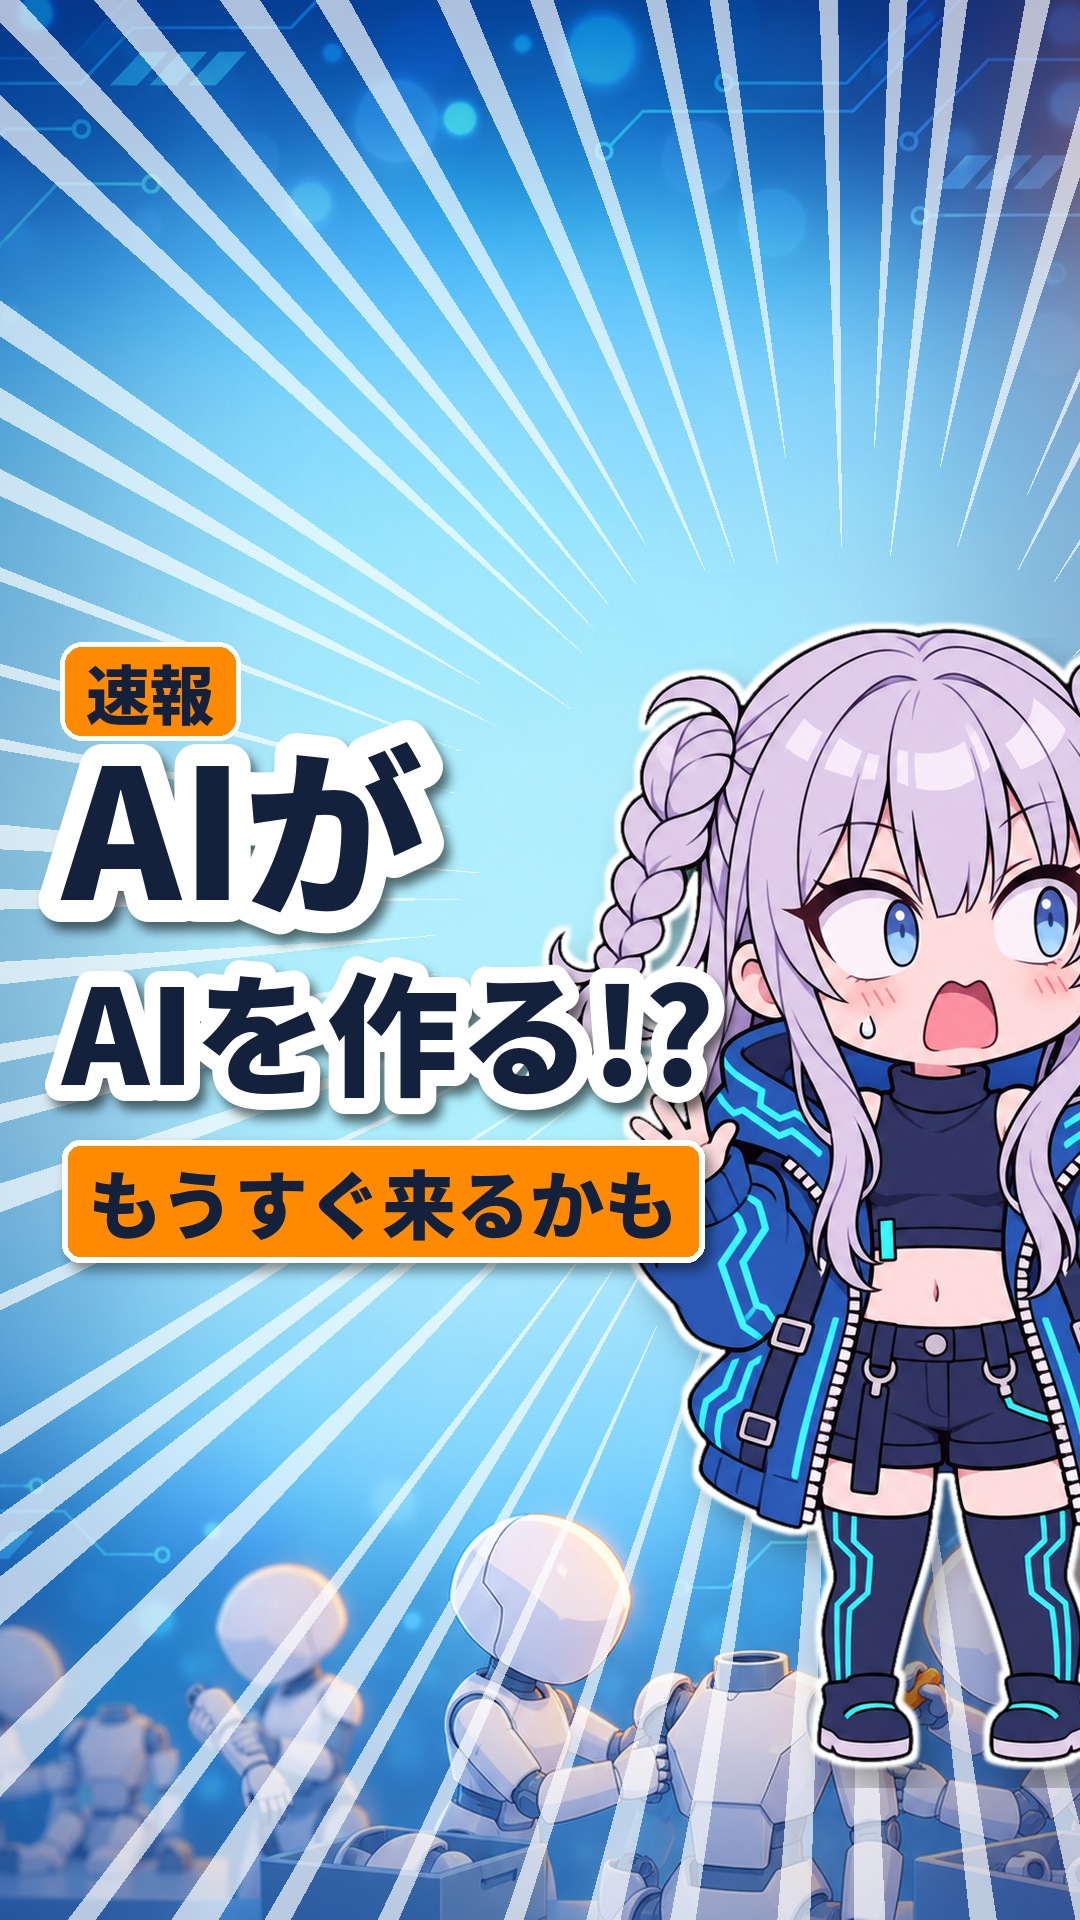
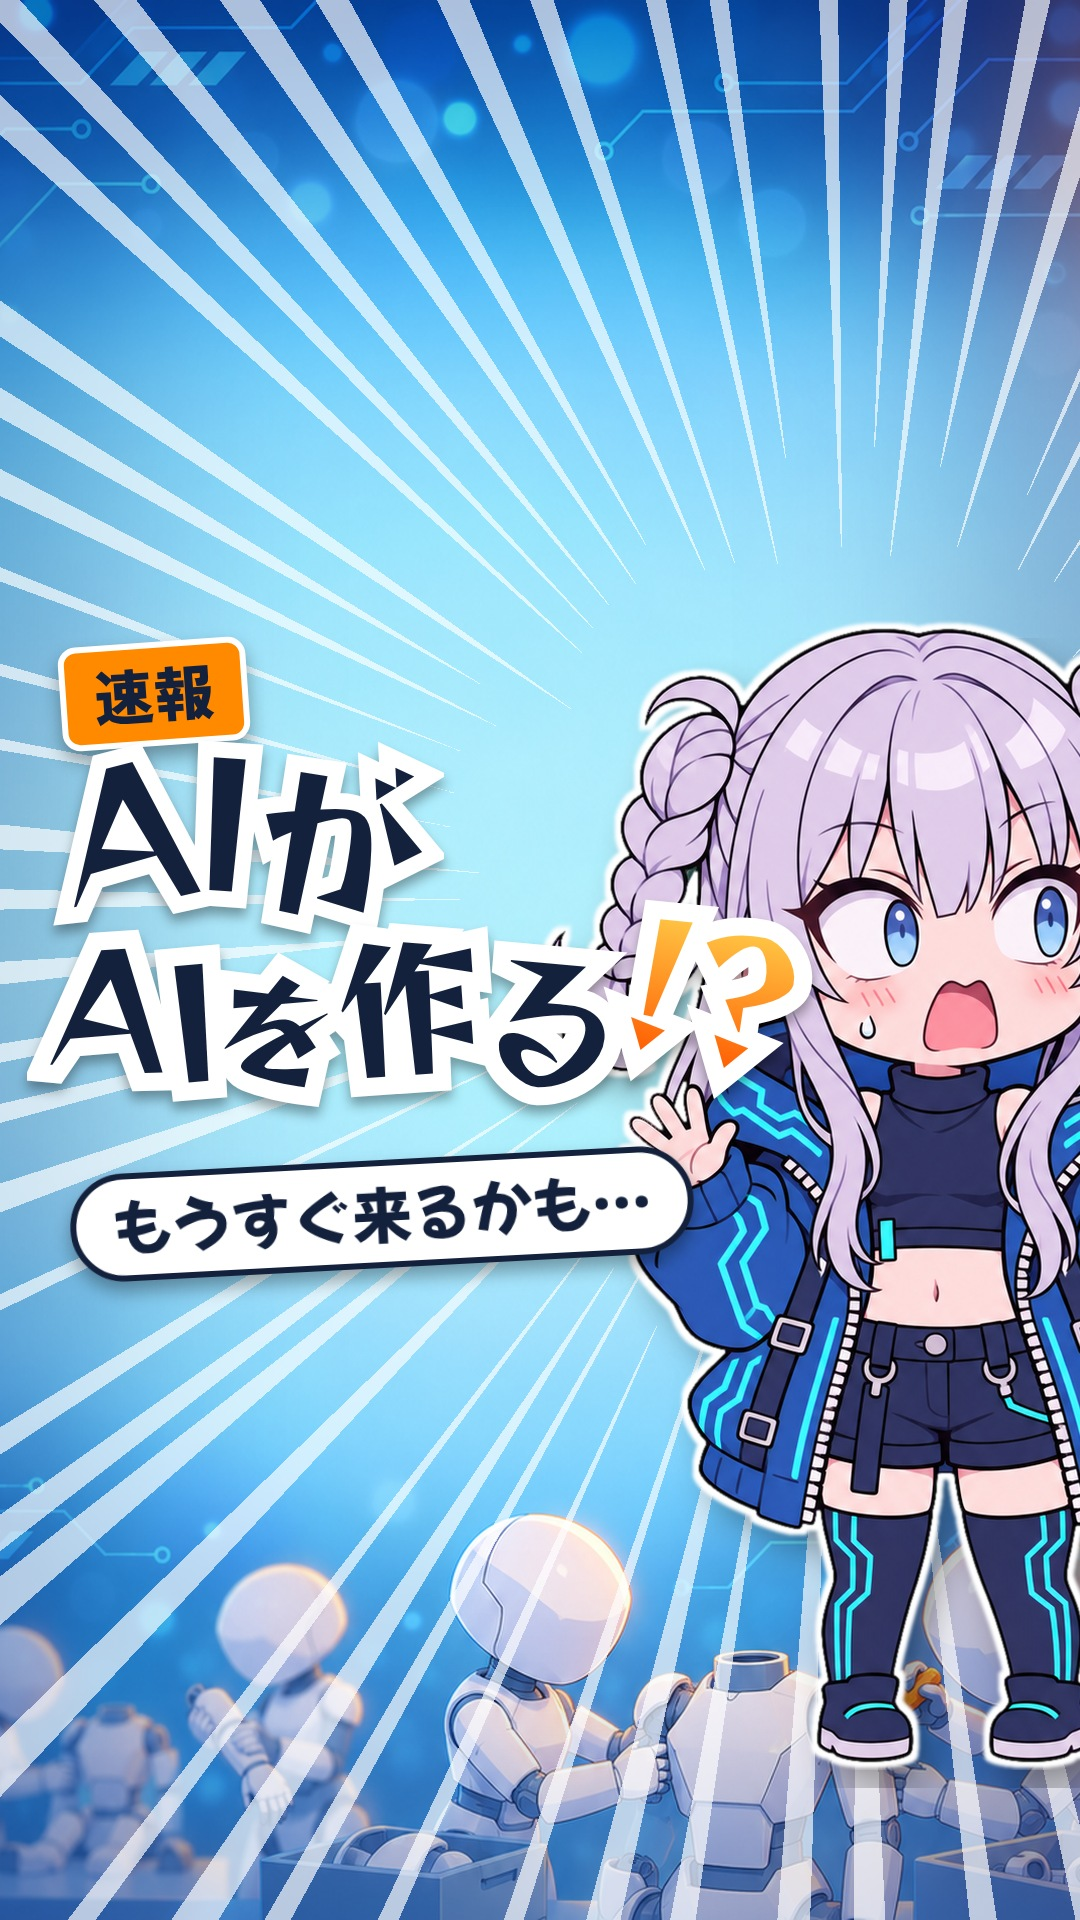
サムネ4案を文字デザイン重視で作り直し（ブラウザ描画のテンプレートとAI描き文字）
Claude-Session: https://claude.ai/code/session_01GPumfm7cRXThygBZ89PTC1

Changed region(s): [[0.0306, 0.3125, 0.7639, 0.6875]]

diff --git a/tools/thumbnail/thumb.html b/tools/thumbnail/thumb.html
@@ -1,0 +1,69 @@
+<!doctype html><html><head><meta charset="utf-8"><style>
+@font-face{font-family:Dela;src:url(../fonts/DelaGothicOne-Regular.ttf)}
+@font-face{font-family:Rampart;src:url(../fonts/RampartOne-Regular.ttf)}
+@font-face{font-family:Reggae;src:url(../fonts/ReggaeOne-Regular.ttf)}
+@font-face{font-family:Rock;src:url(../fonts/RocknRollOne-Regular.ttf)}
+@font-face{font-family:Mochiy;src:url(../fonts/MochiyPopOne-Regular.ttf)}
+@font-face{font-family:Maru;src:url(../fonts/ZenMaruGothic-Black.ttf)}
+@font-face{font-family:Kaku;src:url(../fonts/ZenKakuGothicNew-Black.ttf)}
+@font-face{font-family:Train;src:url(../fonts/TrainOne-Regular.ttf)}
+html,body{margin:0;width:1080px;height:1920px;overflow:hidden;background:#000}
+#c{position:relative;width:1080px;height:1920px;background-size:cover}
+.t{position:absolute;white-space:nowrap;line-height:1}
+.t>span{position:absolute;left:0;top:0}
+.ch{display:inline-block}
+</style></head><body><div id="c"></div><script>
+const NAVY='#14213D',ORG='#FF8A00',W='#fff';
+const id=location.hash.slice(1); const c=document.getElementById('c');
+c.style.backgroundImage=`url(base_${id}.png)`;
+// txt: string or [[text,{size,dy,rot,dx,fill}],...]; strokes outer→inner [[width,color],...]
+function T(txt,o){
+  const parts=typeof txt==='string'?[[txt,{}]]:txt;
+  const box=document.createElement('div'); box.className='t'; box.style.left=o.x+'px'; box.style.top=o.y+'px';
+  box.style.fontFamily=o.font; box.style.fontSize=o.size+'px'; box.style.letterSpacing=(o.ls||0)+'px';
+  box.style.transform=`rotate(${o.rot||0}deg) skewX(${o.skew||0}deg)`; box.style.transformOrigin='left center';
+  if(o.shadow) box.style.filter=`drop-shadow(${o.shadow})`;
+  const layer=(stroke,fill,front)=>{const s=document.createElement('span'); if(!front){s.style.position='absolute'} else {s.style.position='relative'}
+    for(const [t,p] of parts){const e=document.createElement('span'); e.className='ch'; e.textContent=t;
+      if(p.size) e.style.fontSize=p.size+'px'; e.style.transform=`translate(${p.dx||0}px,${p.dy||0}px) rotate(${p.rot||0}deg)`;
+      if(p.ls!=null) e.style.letterSpacing=p.ls+'px';
+      const f=p.fill||fill;
+      if(stroke){e.style.color=stroke[1]; e.style.webkitTextStroke=`${stroke[0]*2}px ${stroke[1]}`; e.style.paintOrder='stroke fill'}
+      else if(f.includes('gradient')){e.style.backgroundImage=f; e.style.webkitBackgroundClip='text'; e.style.color='transparent'}
+      else e.style.color=f;
+      s.appendChild(e)} return s};
+  // extrusion (3D) layers
+  if(o.extrude){const [n,dx,dy,col]=o.extrude; for(let i=n;i>0;i--){const s=layer([o.strokes[0][0],col]); s.style.left=(dx*i)+'px'; s.style.top=(dy*i)+'px'; box.appendChild(s)}}
+  let acc=0; for(const st of o.strokes){box.appendChild(layer(st))}
+  box.appendChild(layer(null,o.fill,true)); c.appendChild(box); return box}
+function tag(txt,o){const d=document.createElement('div'); d.textContent=txt; Object.assign(d.style,{position:'absolute',left:o.x+'px',top:o.y+'px',font:`${o.size}px ${o.font}`,color:o.color||NAVY,background:o.bg||ORG,padding:o.pad||'14px 28px 18px',borderRadius:(o.r??18)+'px',border:o.border||'6px solid #fff',transform:`rotate(${o.rot||0}deg) skewX(${o.skew||0}deg)`,boxShadow:'0 10px 18px rgba(0,0,0,.35)',whiteSpace:'nowrap',lineHeight:1}); c.appendChild(d); return d}
+
+const D={
+A(){ // AI-drawn comic lettering above, she points up at it
+  tag('AI速報',{x:60,y:642,size:60,font:'Kaku',rot:-3});
+  const im=document.createElement('img'); im.src='letter_comic.png'; Object.assign(im.style,{position:'absolute',left:'30px',top:'730px',width:'1020px',transform:'rotate(-6deg)',filter:'drop-shadow(0 12px 10px rgba(0,0,0,.5))'}); c.appendChild(im);
+  tag('時代、',{x:70,y:1010,size:84,font:'Rock',rot:-6,skew:-8,bg:'#fff',color:'#14213D',border:'6px solid #14213D'});
+  tag('もうすぐ？',{x:60,y:1135,size:96,font:'Rock',rot:-6,skew:-8,pad:'12px 34px 18px'});
+},
+B(){ // 考え中: soft rounded copy with a big "?" and a 2x badge
+  tag('AIの警告',{x:60,y:642,size:60,font:'Kaku'});
+  T('AIが自分を',{x:62,y:770,size:122,font:'Maru',fill:'#fff',strokes:[[14,NAVY]],shadow:'0 8px 8px rgba(0,0,0,.5)'});
+  T([['育',{size:200}],['てる',{size:150}],['日',{size:200}]],{x:56,y:905,size:180,font:'Maru',fill:'linear-gradient(#fff 30%,#bfe3ff)',strokes:[[22,'#fff'],[12,NAVY]],extrude:[8,0,3,NAVY],shadow:'0 12px 12px rgba(0,0,0,.5)'});
+  T([['開発ペース',{}],['2倍',{size:96,fill:'linear-gradient(#ffd34d,#ff8a00)'}],['へ',{}]],{x:66,y:1150,size:74,font:'Kaku',fill:'#fff',strokes:[[10,NAVY]],shadow:'0 6px 6px rgba(0,0,0,.5)'});
+},
+C(){ // no character: huge extruded golden "2倍"
+  tag('AI速報',{x:60,y:642,size:60,font:'Kaku'});
+  T('開発ペース',{x:64,y:760,size:132,font:'Dela',fill:'#fff',strokes:[[12,NAVY]],rot:-4,shadow:'0 8px 10px rgba(0,0,0,.5)'});
+  T([['2',{size:330}],['倍',{size:250}]],{x:50,y:870,size:300,font:'Dela',fill:'linear-gradient(#fff6c2 0%,#ffd34d 35%,#ff8a00 70%,#e05200 100%)',strokes:[[16,'#fff'],[8,'#7a2a00']],extrude:[14,3,3,'#5a1d00'],rot:-4,shadow:'0 0 40px rgba(255,160,40,.7)'});
+  T('へ',{x:640,y:1040,size:130,font:'Dela',fill:'#fff',strokes:[[12,NAVY]],rot:-4});
+  tag('AIがAIを作る時代',{x:62,y:1196,size:62,font:'Rock',rot:-4,skew:-8});
+},
+D(){ // chibi manga: jittery comic letters
+  tag('速報',{x:60,y:642,size:60,font:'Kaku',rot:-4});
+  T([['A',{rot:-6}],['I',{rot:4,dy:-8}],['が',{rot:-3,dy:6}]],{x:66,y:740,size:170,font:'Reggae',fill:NAVY,strokes:[[16,'#fff']],shadow:'0 8px 6px rgba(0,0,0,.35)'});
+  T([['A',{rot:5,dy:-6}],['I',{rot:-5,dy:8}],['を',{rot:6,size:120}],['作',{rot:-4,dy:-10}],['る',{rot:5,dy:4}],['!?',{rot:12,dy:-14,size:165,fill:'linear-gradient(#ffd34d,#ff5a00)'}]],{x:56,y:920,size:150,font:'Reggae',fill:NAVY,strokes:[[18,'#fff']],shadow:'0 8px 6px rgba(0,0,0,.35)',ls:-4});
+  tag('もうすぐ来るかも…',{x:70,y:1160,size:60,font:'Mochiy',bg:'#fff',color:NAVY,border:'6px solid '+NAVY,r:60,pad:'16px 36px 20px',rot:-3});
+}};
+document.fonts.ready.then(()=>{D[id](); Promise.all([...document.images].map(i=>i.complete?1:new Promise(r=>i.onload=r))).then(()=>setTimeout(()=>document.title='done',300))});
+for(const f of ['Dela','Rampart','Reggae','Rock','Mochiy','Maru','Kaku','Train']) document.fonts.load(`40px ${f}`,'AIが作る');
+</script></body></html>

diff --git a/tools/thumbnail/render.js b/tools/thumbnail/render.js
@@ -1,0 +1,5 @@
+const {chromium}=require('playwright');
+(async()=>{const b=await chromium.launch(); const p=await b.newPage({viewport:{width:1080,height:1920}});
+for(const id of process.argv.slice(2)){ await p.goto('file://'+__dirname+'/thumb.html#'+id); await p.reload(); await p.waitForFunction(()=>document.title==='done'); await p.waitForTimeout(400);
+ await p.screenshot({path:__dirname+`/out/v3_${id}.png`});}
+await b.close()})();

diff --git a/tools/thumbnail/make_base.py b/tools/thumbnail/make_base.py
@@ -1,0 +1,91 @@
+# 4 thumbnail proposals for 「AIがAIを作る時代、もうすぐ？」 following tools/thumbnail_rules.md
+from PIL import Image, ImageDraw, ImageFont, ImageFilter, ImageOps
+S='/tmp/claude-0/-home-claude/0af991d2-2b1f-514d-b255-157946716558/scratchpad'
+T=f'{S}/thumb2'; FB='/usr/share/fonts/opentype/noto/NotoSansCJK-Black.ttc'
+NAVY=(20,33,61); ORG=(255,138,0); WHITE=(255,255,255)
+def font(sz): return ImageFont.truetype(FB,sz,index=0)
+def bg_img(path, dark=False):
+    bg=Image.open(path).convert('RGB'); bg=ImageOps.fit(bg,(1080,1920),Image.LANCZOS).convert('RGBA')
+    return bg
+def vignette(bg, col=(10,40,110), a=120):
+    ov=Image.new('L',bg.size,0); d=ImageDraw.Draw(ov); d.rectangle([0,0,1080,1920],fill=a); d.rounded_rectangle([60,80,1020,1840],radius=300,fill=0)
+    ov=ov.filter(ImageFilter.GaussianBlur(120)); bg.alpha_composite(Image.merge('RGBA',[Image.new('L',bg.size,c) for c in col]+[ov]))
+def band_dark(bg,a=120):
+    ov=Image.new('RGBA',bg.size,(0,0,0,0)); d=ImageDraw.Draw(ov)
+    for y in range(540,1380): d.line([(0,y),(1080,y)],fill=(8,14,40,int(a*(1-abs(y-960)/440)**0.7)))
+    bg.alpha_composite(ov)
+def speedlines(bg,cx,cy,n=70,col=(255,255,255,170)):
+    import math,random; random.seed(3); ov=Image.new('RGBA',bg.size,(0,0,0,0)); d=ImageDraw.Draw(ov)
+    for i in range(n):
+        t=2*math.pi*i/n+random.uniform(-.03,.03); r0=random.uniform(330,470); w=random.uniform(.010,.022)
+        p=[(cx+r0*math.cos(t),cy+r0*math.sin(t)),(cx+2400*math.cos(t-w),cy+2400*math.sin(t-w)),(cx+2400*math.cos(t+w),cy+2400*math.sin(t+w))]
+        d.polygon(p,fill=col)
+    bg.alpha_composite(ov)
+def text(bg,*a,**k): return
+def _old_text(bg,txt,xy,sz,fill=NAVY,edge=WHITE,sw=None,anchor='ls',shadow=True):
+    f=font(sz); d=ImageDraw.Draw(bg); sw=sw if sw is not None else max(sz//8,6)
+    if shadow:
+        sh=Image.new('RGBA',bg.size,(0,0,0,0)); ImageDraw.Draw(sh).text((xy[0]+6,xy[1]+9),txt,font=f,fill=(0,0,0,140),anchor=anchor,stroke_width=sw,stroke_fill=(0,0,0,140))
+        bg.alpha_composite(sh.filter(ImageFilter.GaussianBlur(5)))
+    d.text(xy,txt,font=f,fill=fill,anchor=anchor,stroke_width=sw,stroke_fill=edge)
+    return d.textbbox(xy,txt,font=f,anchor=anchor,stroke_width=sw)
+def label(bg,*a,**k): return
+def _old_label(bg,txt,x=60,y=642,sz=64):
+    f=font(sz); d=ImageDraw.Draw(bg); w=d.textlength(txt,font=f)
+    d.rounded_rectangle([x,y,x+w+52,y+sz+34],radius=22,fill=ORG,outline=WHITE,width=5)
+    d.text((x+26,y+sz//2+17),txt,font=f,fill=NAVY,anchor='lm')
+def band(bg,*a,**k): return
+def _old_band(bg,txt,x,y,sz=78,pad=26):
+    f=font(sz); d=ImageDraw.Draw(bg); w=d.textlength(txt,font=f)
+    sh=Image.new('RGBA',bg.size,(0,0,0,0)); ImageDraw.Draw(sh).rounded_rectangle([x+6,y+8,x+w+2*pad+6,y+sz+2*pad-4+8],radius=18,fill=(0,0,0,110)); bg.alpha_composite(sh.filter(ImageFilter.GaussianBlur(6)))
+    d.rounded_rectangle([x,y,x+w+2*pad,y+sz+2*pad-4],radius=18,fill=ORG,outline=WHITE,width=6)
+    d.text((x+pad,y+(sz+2*pad-4)//2),txt,font=f,fill=NAVY,anchor='lm')
+def char(bg,name,height,x,y,flip=False,shadow=True,fade=0):
+    c=Image.open(f'{T}/assets/{name}.png'); sc=height/c.height; c=c.resize((int(c.width*sc),height),Image.LANCZOS)
+    if fade:
+        import numpy as np
+        arr=np.asarray(c).copy(); g=np.ones(height); g[-fade:]=np.linspace(1,0,fade)**1.5; arr[...,3]=(arr[...,3]*g[:,None]).astype('uint8'); c=Image.fromarray(arr,'RGBA')
+    if flip: c=ImageOps.mirror(c)
+    # white outline so she separates from any background
+    a=c.getchannel('A'); ol=a.filter(ImageFilter.MaxFilter(13)).filter(ImageFilter.GaussianBlur(1.5))
+    if shadow:
+        s=a.filter(ImageFilter.GaussianBlur(18)).point(lambda v:int(v*0.45)); bg.alpha_composite(Image.merge('RGBA',[Image.new('L',c.size,0)]*3+[s]),(x+14,y+18))
+    bg.alpha_composite(Image.merge('RGBA',[Image.new('L',c.size,255)]*3+[ol]),(x,y)); bg.alpha_composite(c,(x,y))
+def logo(bg,y=300,w=760):
+    lg=Image.open('/home/claude/my-yukan-repo/channel/logo.png').convert('RGBA'); lg=lg.resize((w,int(lg.height*w/lg.width)),Image.LANCZOS); bg.alpha_composite(lg,((1080-w)//2,y))
+def save(bg,n):
+    bg.convert('RGB').save(f'{T}/base_{n}.png'); return
+    bg.convert('RGB').save(f'{T}/out/サムネ{n}.jpg',quality=93)
+
+# A: robot hand building a robot (literally "AI makes AI") + surprised pointing
+bg=bg_img(f'{S}/thumb/bg1.png'); band_dark(bg)
+char(bg,'rina_surprised_point_left',1222,420,800,fade=260)
+label(bg,'AI速報')
+text(bg,'AIが',(62,890),165); text(bg,'AIを作る',(62,1075),165)
+band(bg,'時代がもうすぐ？',62,1140,74)
+save(bg,'A')
+
+# B: spiral staircase of robots climbing toward the light + thinking
+bg=bg_img(f'{S}/thumb/bg2.png'); band_dark(bg,140)
+char(bg,'rina_thinking_left',1400,500,610)
+label(bg,'AIの警告')
+text(bg,'AIが自分を',(62,895),136); text(bg,'育てる日',(62,1060),170)
+band(bg,'開発ペース2倍へ',62,1120,74)
+save(bg,'B')
+
+# C: no character — the rising arrow does the talking
+bg=bg_img(f'{S}/thumb/bg3.png'); band_dark(bg)
+label(bg,'AI速報')
+text(bg,'開発ペース',(62,890),150); text(bg,'2倍',(62,1120),240,fill=ORG,edge=NAVY,sw=14)
+band(bg,'AIがAIを作る時代へ',62,1150,70)
+save(bg,'C')
+
+# D: chibi, shocked, full body with manga speed lines filling the frame
+bg=bg_img(f'{T}/bgplate.png'); vignette(bg)
+speedlines(bg,850,900)
+char(bg,'rina_chibi_shocked',1150,540,620,flip=True)
+label(bg,'速報')
+text(bg,'AIが',(62,900),180); text(bg,'AIを作る!?',(62,1085),132)
+band(bg,'もうすぐ来るかも',62,1140,74)
+save(bg,'D')
+

diff --git a/tools/thumbnail_rules.md b/tools/thumbnail_rules.md
@@ -12,6 +12,11 @@
 - 型：窓の左上にオレンジ角丸ラベル（2〜4字：速報・新製品・価格・比較・注意・便利）／左に主コピー（紺・極太ゴシック・白縁、6〜10字・2行まで）／その下にオレンジの帯／右に顔（窓の高さの60〜80%）、視線・指差しは左の文字へ。
 - 16:9 を作るときは右下（幅30%×高さ25%）に文字を置かない。
 
+## 文字のデザイン（文字もデザインの一部）
+- 文字は「フォントを置くだけ」にしない。tools/thumbnail/thumb.html（ブラウザで描く）で、1文字ずつの大きさ・傾き・色、グラデーション、二重三重のふち、立体（押し出し）、光彩、斜めのタグなどを使って作る。
+- フォントは google/fonts から：Dela Gothic One（極太）、RocknRoll One、Reggae One（マンガ風）、Mochiy Pop One（ポップ）、Zen Maru Gothic Black（丸）、Zen Kaku Gothic New Black など。話題の雰囲気で選ぶ。
+- 主コピーは画像AI（Codex）にロゴ風の文字として描かせる手もある（緑背景で描かせて切り抜く）。字の間違いが出やすいので必ず読んで確認する。できたものは channel/rina_assets/lettering/ に残す。
+
 ## 文字と色
 - 主コピー1行の高さ＝窓の高さの18〜25%。フォントは太いゴシック1種類（多くて2種類）。句読点は省く。
 - 色はブランド3色＋白：背景は薄い水色→外周を濃い青（純白は避ける）、文字は紺 #14213D＋白縁、強調はオレンジ #FF8A00（面積10〜15%、1か所に集中）。
